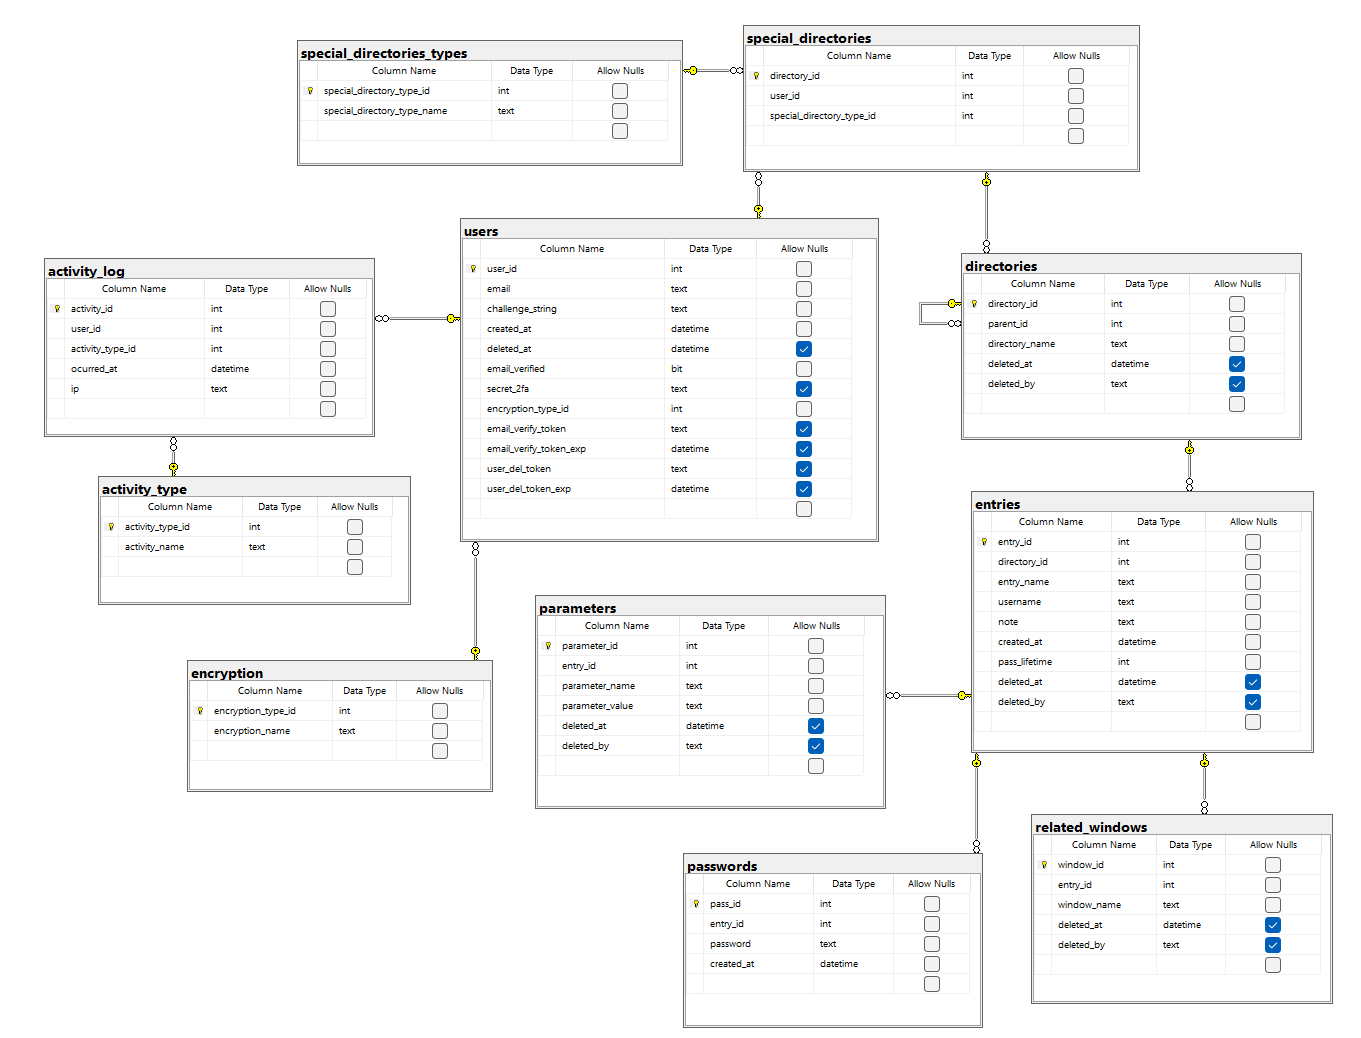
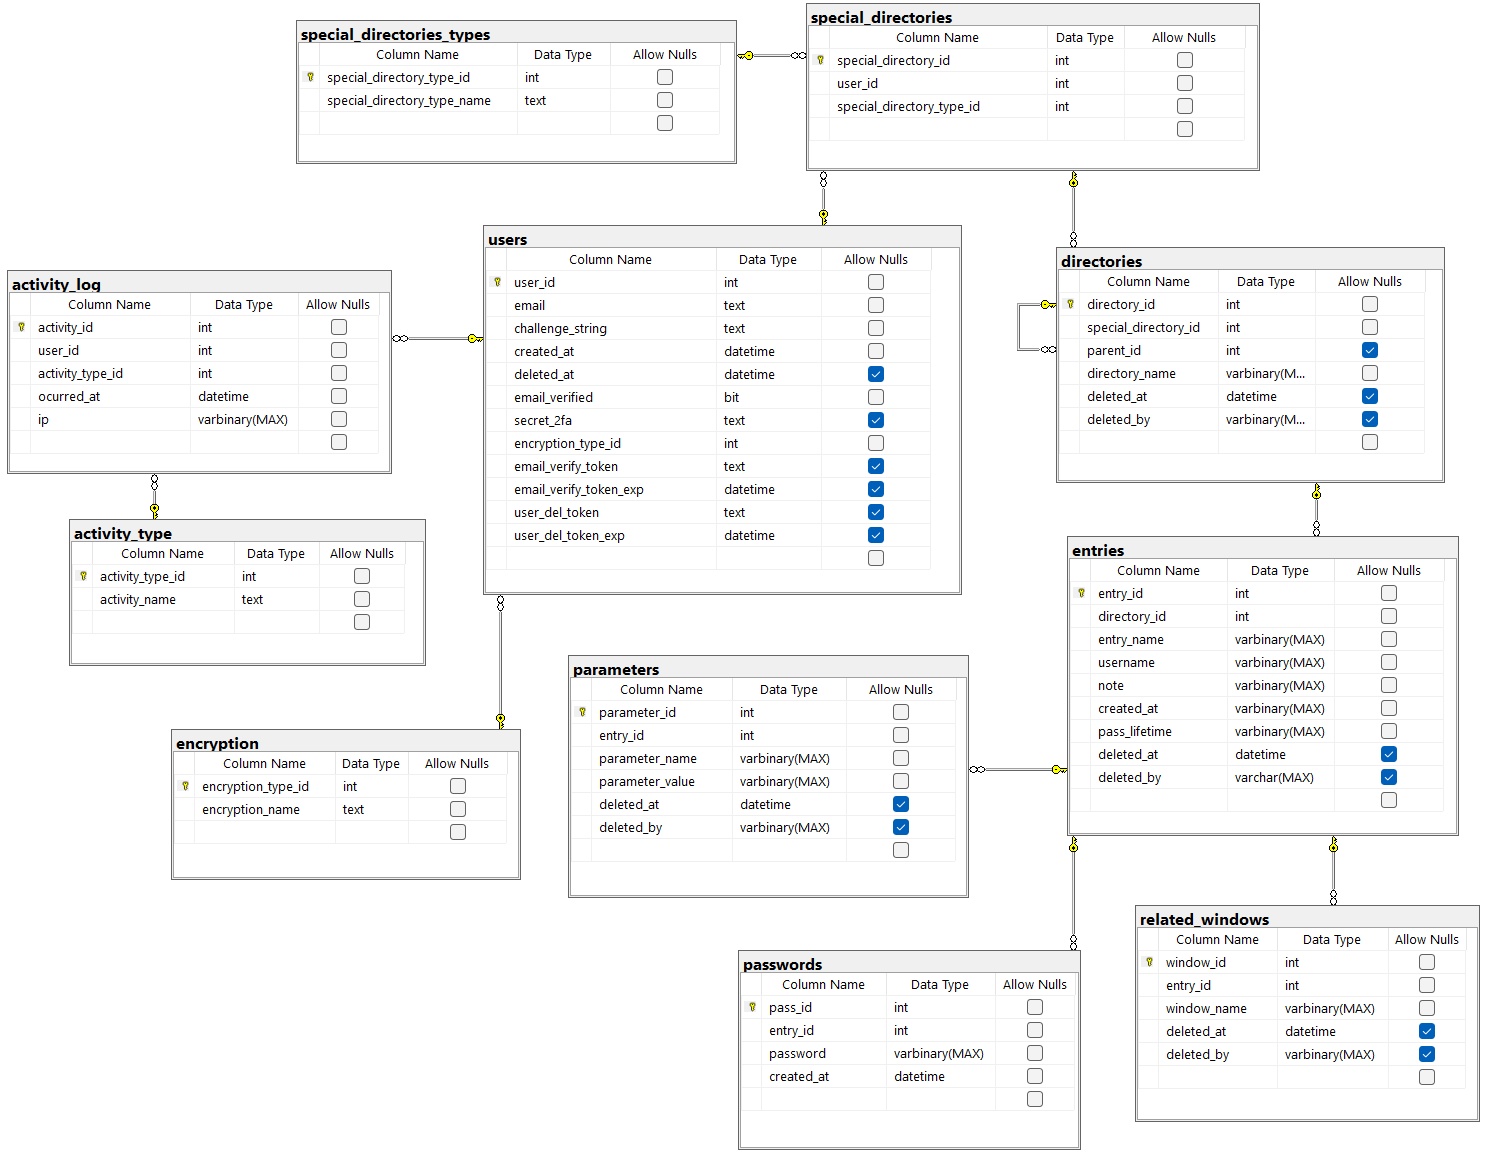
64

diff --git a/Server/snpm_server/src/utils/db.py b/Server/snpm_server/src/utils/db.py
@@ -1,16 +1,125 @@
+from Crypto.Protocol.KDF import PBKDF2
+from Crypto.Hash import SHA512
+from Crypto.Cipher import AES
+from Crypto.Util.Padding import pad, unpad
+
+
+
+class NoKeyError(Exception):
+    """Cryptographic key required for function not provided"""
+    pass
+
+
 class CryptoDB:
+    """Cryptographic aspects of SQL Database in SNPM Server"""
 
-    def __init__(self, key :bytes) -> None:
+    # Supported cryptographic algorithms
+    AES256 = 1
+    AES192 = 2
+    AES128 = 3
+    TWOFISH256 = 4
+    TWOFISH192 = 5
+    TWOFISH128 = 6
+    SERPENT256 = 7
+    SERPENT192 = 8
+    SERPENT128 = 9
+
+    def __init__(self, algorithm_id :int, key :bytes=None, iv :bytes=None) -> None:
+
+        # Expected lengths of key and iv for each supported algorithms
+        self.__expected_len = {
+            str(self.AES256): (256, 128),
+            str(self.AES192): (192, 128),
+            str(self.AES128): (128, 128),
+            str(self.TWOFISH256): (256, 128),
+            str(self.TWOFISH192): (192, 128),
+            str(self.TWOFISH128): (128, 128),
+            str(self.SERPENT256): (256, 128),
+            str(self.SERPENT192): (192, 128),
+            str(self.SERPENT128): (128, 128),
+        }
+
+        # Validating arguments
+        if key != None and iv == None or iv != None and key == None:
+            raise ValueError(f'If you want to provide a cryptographic key, you must also provide iv')
+        if str(algorithm_id) not in self.__expected_len.keys():
+            raise ValueError(f'Unknown algorithm id "{algorithm_id}"')
+        if key != None:
+            if len(key) != self.__expected_len.get(str(algorithm_id))[0] or len(iv) != self.__expected_len.get(str(algorithm_id))[1]:
+                raise ValueError(f'{self.__expected_len.get(str(algorithm_id))[0]}-bit key and {self.__expected_len.get(str(algorithm_id))[1]}-bit iv are expected for the chosen algorithm')
+        
+        # Assigning values
+        self.__algorithm_id = algorithm_id
         self.__key = key
-
+        self.__iv = iv
+        
     def encrypt(self, data :str) -> bytes:
-        pass
+        """
+        Encrypt data using the loaded cryptographic parameters.
+        Args:
+            data (str): data to encrypt
+        Return:
+            encrypted data (bytes)
+        """
 
-    def decrypt(self, data :bytes) -> str:
-        pass
+        if self.__key == None:
+            raise NoKeyError(f'First generate the cryptographic key')
+        
+        if self.__algorithm_id in (CryptoDB.AES256, CryptoDB.AES192, CryptoDB.AES128):
+            cipher = AES.new(self.__key, AES.MODE_CBC, iv=self.__iv)
+            ciphertext = cipher.encrypt(pad(bytes(data, 'utf-8'), AES.block_size))
+        
+        return ciphertext
+
+    def decrypt(self, ciphertext :bytes) -> str:
+        """
+        Decrypt data using the loaded cryptographic parameters.
+        Args:
+            data (str): data to encrypt
+        Return:
+            decrypted data (bytes)
+        """
+
+        if self.__key == None:
+            raise NoKeyError(f'First generate the cryptographic key')
+        
+        if self.__algorithm_id in (CryptoDB.AES256, CryptoDB.AES192, CryptoDB.AES128):
+            cipher = AES.new(self.__key, AES.MODE_CBC, iv=self.__iv)
+            plaintext = unpad(cipher.decrypt(ciphertext), AES.block_size)
+        
+        return plaintext.decode('utf-8')
+
+    def create_key(self, password :str, email :str) -> tuple[bytes, bytes]:
+        """
+        Generates a key using the kdf algorithm based on sha512 and plugs it into the object.
+        Args:
+            password (str): password which will be converted to a cryptographic key
+            email (str): email address that will be used to increase key security
+        Return:
+            crypto key (bytes), iv (bytes)
+        """
+        
+        key_len = int(self.__expected_len.get(str(self.__algorithm_id))[0] / 8) # key length in bytes
+        iv_len = int(self.__expected_len.get(str(self.__algorithm_id))[1] / 8) # iv length in bytes
+
+        username = email.split('@')[0]
+        if len(username) <= 2:
+            username = email
+        if len(username) <= 2:
+            raise ValueError('Email address is too short')
+        if len(password) <= 4:
+            raise ValueError('Password is too short')
+        
+        salt = bytes(username, 'utf-8') # users with identical passwords will have different keys
+        kdf_res = PBKDF2(password, salt, key_len+iv_len, count=1000, hmac_hash_module=SHA512)
+        self.__iv = kdf_res[:iv_len]
+        self.__key = kdf_res[iv_len:]
+
+        return (self.__key, self.__iv)
 
 
 class SNPMDB:
+    """Plugs cryptography into subclasses"""
 
     @property
     def crypto(self) -> CryptoDB:

diff --git a/Server/snpm_server/src/models/entries.py b/Server/snpm_server/src/models/entries.py
@@ -12,10 +12,10 @@ class Entry(db.Model, SNPMDB):
     __name = db.Column('entry_name', db.LargeBinary, nullable=False)
     __username = db.Column('username', db.LargeBinary, nullable=False)
     __note = db.Column('note', db.LargeBinary, nullable=False)
-    created_at = db.Column(db.DateTime, nullable=False)
-    pass_lifetime = db.Column(db.Integer, nullable=False)
+    __created_at = db.Column(db.DateTime, nullable=False)
+    __pass_lifetime = db.Column(db.Integer, nullable=False)
     deleted_at = db.Column(db.DateTime, nullable=True)
-    deleted_by = db.Column(db.String, nullable=True)
+    __deleted_by = db.Column(db.String, nullable=True)
 
     @property
     def name(self) -> str:
@@ -40,3 +40,27 @@ class Entry(db.Model, SNPMDB):
     @note.setter
     def name(self, note :str) -> None:
         self.__note = self.crypto.encrypt(note)
+
+    @property
+    def created_at(self) -> str:
+        return self.crypto.decrypt(self.__created_at)
+    
+    @created_at.setter
+    def created_at(self, created_at :str) -> None:
+        self.__created_at = self.crypto.encrypt(created_at)
+
+    @property
+    def pass_lifetime(self) -> int:
+        return int(self.crypto.decrypt(self.__pass_lifetime))
+    
+    @pass_lifetime.setter
+    def created_at(self, pass_lifetime :int) -> None:
+        self.__pass_lifetime = self.crypto.encrypt(str(int(pass_lifetime)))
+    
+    @property
+    def deleted_by(self) -> str:
+        return self.crypto.decrypt(self.__deleted_by)
+    
+    @deleted_by.setter
+    def deleted_by(self, deleted_by :str) -> None:
+        self.__deleted_by = self.crypto.encrypt(deleted_by)

diff --git a/Server/snpm_server/test/test_utils_db.py b/Server/snpm_server/test/test_utils_db.py
@@ -1,0 +1,40 @@
+from src.utils.db import CryptoDB
+from pytest import raises
+
+
+
+def test_cryptodb_keys():
+    crypto = CryptoDB(CryptoDB.AES256)
+    key, iv = crypto.create_key('sample password', 'mail@example.org')
+    key2, iv2 = crypto.create_key('sample password', 'mail@example.org')
+    key3, iv3 = crypto.create_key('sample password 2', 'mail@example.org')
+    key4, iv4 = crypto.create_key('sample password', 'mail2@example.org')
+
+    assert key == key2
+    assert iv == iv2
+    assert key != key3
+    assert key != key4
+    assert key3 != key4
+    assert iv != iv4
+    assert iv3 != iv4
+
+
+def test_cryptodb_encrypt_decrypt():
+    for algorithm in (CryptoDB.AES256, CryptoDB.AES192, CryptoDB.AES128):
+        crypto = CryptoDB(algorithm)
+        crypto.create_key('sample password', 'mail@example.org')
+
+        sample_text = 'sample text'
+        encrypted1 = crypto.encrypt(sample_text)
+        encrypted2 = crypto.encrypt(sample_text)
+        assert encrypted1 == encrypted2
+        assert encrypted1 != sample_text
+
+        crypto.create_key('sample password2', 'mail@example.org')
+        encrypted3 = crypto.encrypt(sample_text)
+        assert encrypted1 != encrypted3
+
+        decrypted = crypto.decrypt(encrypted3)
+        assert decrypted == sample_text
+        with raises(ValueError):
+            crypto.decrypt(encrypted1)

diff --git a/Server/snpm_server/src/models/related_windows.py b/Server/snpm_server/src/models/related_windows.py
@@ -11,7 +11,7 @@ class RelatedWindow(db.Model, SNPMDB):
     entry_id = db.Column(db.Integer, db.ForeignKey('entries.entry_id'), nullable=False)
     __name = db.Column('window_name', db.LargeBinary, nullable=False)
     deleted_at = db.Column(db.DateTime, nullable=True)
-    deleted_by = db.Column(db.String, nullable=True)
+    __deleted_by = db.Column(db.String, nullable=True)
 
     @property
     def name(self) -> str:
@@ -20,3 +20,11 @@ class RelatedWindow(db.Model, SNPMDB):
     @name.setter
     def name(self, name :str) -> None:
         self.__name = self.crypto.encrypt(name)
+
+    @property
+    def deleted_by(self) -> str:
+        return self.crypto.decrypt(self.__deleted_by)
+    
+    @deleted_by.setter
+    def deleted_by(self, deleted_by :str) -> None:
+        self.__deleted_by = self.crypto.encrypt(deleted_by)

diff --git a/Server/snpm_server/src/models/parameters.py b/Server/snpm_server/src/models/parameters.py
@@ -12,7 +12,7 @@ class EntryParameter(db.Model, SNPMDB):
     __name = db.Column('parameter_name', db.LargeBinary, nullable=False)
     __value = db.Column('parameter_value', db.LargeBinary, nullable=False)
     deleted_at = db.Column(db.DateTime, nullable=True)
-    deleted_by = db.Column(db.String, nullable=True)
+    __deleted_by = db.Column(db.String, nullable=True)
 
     @property
     def name(self) -> str:
@@ -29,3 +29,11 @@ class EntryParameter(db.Model, SNPMDB):
     @value.setter
     def value(self, value :str) -> None:
         self.__value = self.crypto.encrypt(value)
+
+    @property
+    def deleted_by(self) -> str:
+        return self.crypto.decrypt(self.__deleted_by)
+    
+    @deleted_by.setter
+    def deleted_by(self, deleted_by :str) -> None:
+        self.__deleted_by = self.crypto.encrypt(deleted_by)

diff --git a/Server/snpm_server/src/models/activity_log.py b/Server/snpm_server/src/models/activity_log.py
@@ -11,4 +11,12 @@ class ActivityLog(db.Model, SNPMDB):
     user_id = db.Column(db.Integer, db.ForeignKey('user.user_id'), nullable=False)
     activity_type_id = db.Column(db.Integer, nullable=False)
     ocurred_at = db.Column(db.DateTime, nullable=False)
-    ip = db.Column(db.String, nullable=False)
+    __ip = db.Column(db.String, nullable=False)
+
+    @property
+    def ip(self) -> str:
+        return self.crypto.decrypt(self.__ip)
+    
+    @ip.setter
+    def ip(self, ip :str) -> None:
+        self.__ip = self.crypto.encrypt(ip)
